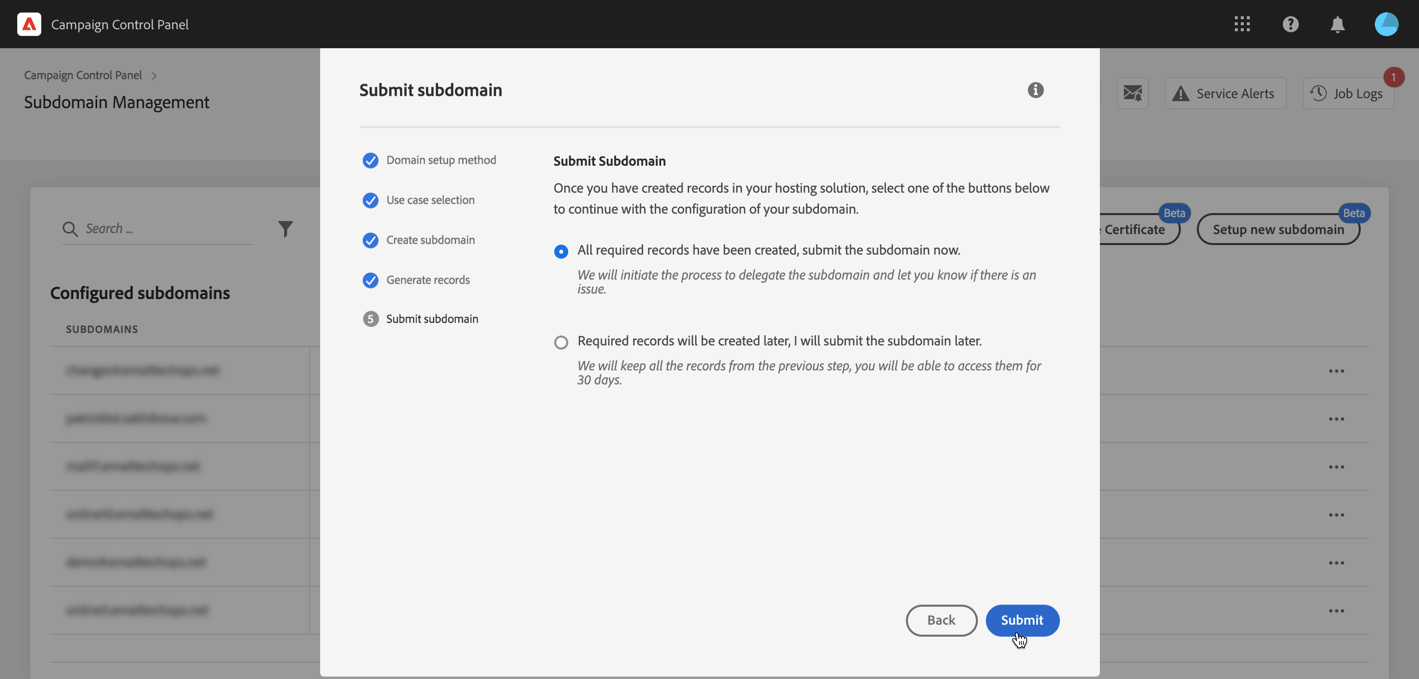
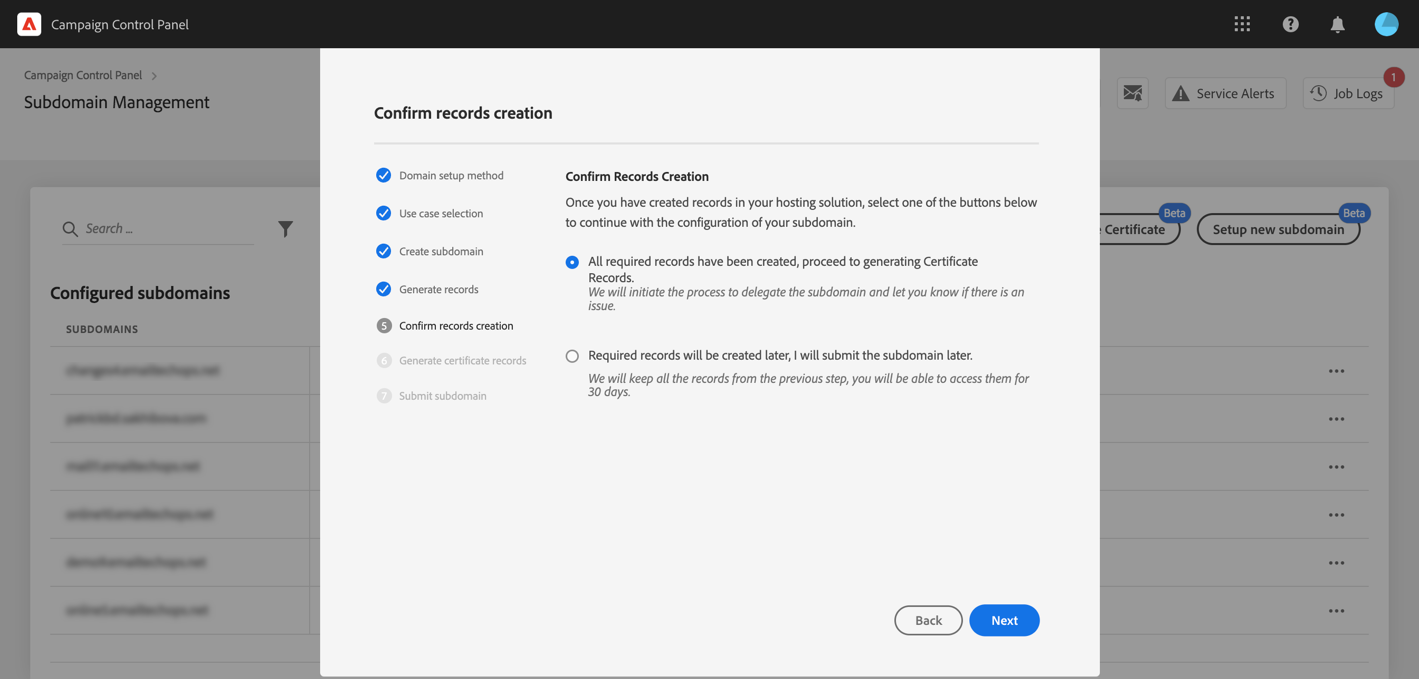
csr

diff --git a/help/subdomains-certificates/using/setting-up-new-subdomain.md b/help/subdomains-certificates/using/setting-up-new-subdomain.md
@@ -8,6 +8,7 @@ role: Architect
 level: Experienced
 exl-id: d92781c3-14cc-4716-a131-580ccff46d6e
 ---
+
 # Setting up a new subdomain {#setting-up-subdomain}
 
 >[!CONTEXTUALHELP]
@@ -15,6 +16,11 @@ exl-id: d92781c3-14cc-4716-a131-580ccff46d6e
 >title="Setup new subdomains and manage certificates"
 >abstract="You need to setup a new subdomain and manage your subdomains' SSL certificates to start sending emails or publish landing pages with Adobe Campaign."
 >additional-url="https://experienceleague.adobe.com/docs/control-panel/using/subdomains-and-certificates/monitoring-ssl-certificates.html" text="Monitoring SSL certificates"
+
+>[!CONTEXTUALHELP]
+>id="cp_managed_ssl"
+>title="Delegate subdomains' SSL certificates to Adobe"
+>abstract="Control Panel allows you to have your subdomains' SSL certificates managed by Adobe. If you are using CNAMEs to set up your subdomain, certificates records will be automatically generated and provided in order to generate a certificate into your domain hosting solution."
 
 ## Must-read {#must-read}
 
@@ -88,6 +94,8 @@ To fully delegate a subdomain to Adobe Campaign, follow the steps below.
 
     Make sure you fill in the **full name** of the subdomain to delegate. For example, to delegate the "usoffers.email.weretail.com" subdomain, type "usoffers.email.weretail.com".
 
+1. To delegate the generation of the subdomain's SSL certificate to Adobe, enable the **[!UICONTROL Opt for Adobe managed SSL for sub-domains]** option. 
+
     ![](assets/subdomain6.png)
 
 Once the subdomain is submitted, various checks and configuration steps  will be performed by the Control Panel. For more on this, see [Subdomain checks and configuration](#subdomain-checks-and-configuration).
@@ -128,25 +136,36 @@ To configure a subdomain using CNAMEs, follow the steps below.
 
     ![](assets/cname-use-case.png)
 
-1. Enter the subdomain that you created into your hosting solution, then click **[!UICONTROL Next]**.
+1. Enter the subdomain that you created into your hosting solution. To delegate the generation of the subdomain's SSL certificate to Adobe, enable the **[!UICONTROL Opt for Adobe managed SSL for sub-domains]** option. 
 
-    Make sure you fill in the **full name** of the subdomain to setup. For example, to configure the "usoffers.email.weretail.com" subdomain, type "usoffers.email.weretail.com".
+    ![](assets/cname-adobe-managed.png)
 
-    ![](assets/cname-submit.png)
+    >[!NOTE]
+    >
+    >Make sure you fill in the **full name** of the subdomain to setup. For example, to configure the "usoffers.email.weretail.com" subdomain, type "usoffers.email.weretail.com".
 
 1. The list of records to be placed in your DNS servers displays. Copy these records, either one by one, or by downloading a CSV file, then navigate to your domain hosting solution to generate the matching DNS records.
 
     ![](assets/cname-generate-record.png)
 
-1. Make sure that all the DNS records from previous steps have been generated into your domain hosting solution. If everything is configured properly, select the first statement then click **[!UICONTROL Submit]** to confirm.
+1. Make sure that all the DNS records from previous steps have been generated into your domain hosting solution. If everything is configured properly, select the first statement then click **[!UICONTROL Next]** to confirm.
+
+    If you want to create the records and submit the subdomain configuration later on, select the second statement. You will then be able to resume the subdomain configuration directly from the subdomain management screen **[!UICONTROL Processing]** area. Note that DNS records to be placed on your server will be kept by Control Panel 30 days. Beyond that period, you will have to configure the subdomain from scratch.
+    
+
+    >[!NOTE]
+    >
+    >If you chose not to delegate the SSL certificate to Adobe, this is the last step of the subdomain configuration. Click the **[!UICONTROL Submit]** button. 
 
     ![](assets/cname-confirmation.png)
     
-    >[!NOTE]
-    >
-    >If you want to create the records and submit the subdomain configuration later on, select the second statement then click **[!UICONTROL Submit later]**. You will then be able to resume the subdomain configuration directly from the subdomain management screen **[!UICONTROL Processing]** area.
-    >
-    >Note that DNS records to be placed on your server will be kept by Control Panel 30 days. Beyond that period, you will have to configure the subdomain from scratch.
+1. If you chose to delegate the subdomains' certificate to Adobe, certificate are automatically generated. Copy these records, either one by one, or by downloading a CSV file, then navigate to your domain hosting solution to generate the matching certificate. 
+
+    ![](assets/cname-csr-generation.png)
+
+1. Make sure that all the certificate records have been generated into your domain hosting solution. If everything is configured properly, select the first statement then click **[!UICONTROL Submit]** to confirm.
+
+    ![](assets/cnames-submit.png)
 
 Once the subdomain is submitted, various checks and configuration steps  will be performed by the Control Panel. For more on this, see [Subdomain checks and configuration](#subdomain-checks-and-configuration).
 

diff --git a/help/subdomains-certificates/using/adobe-managed-ssl.md b/help/subdomains-certificates/using/adobe-managed-ssl.md
@@ -1,0 +1,12 @@
+---
+product: campaign
+solution: Campaign 
+title: Adobe-managed SSL certifcates for subdomains
+description: Learn how to set up a new subdomain for your campaign instances
+feature: Control Panel
+role: Architect
+level: Experienced
+---
+
+# Adobe-managed SSL certificates for subdomains {#ssl}
+
